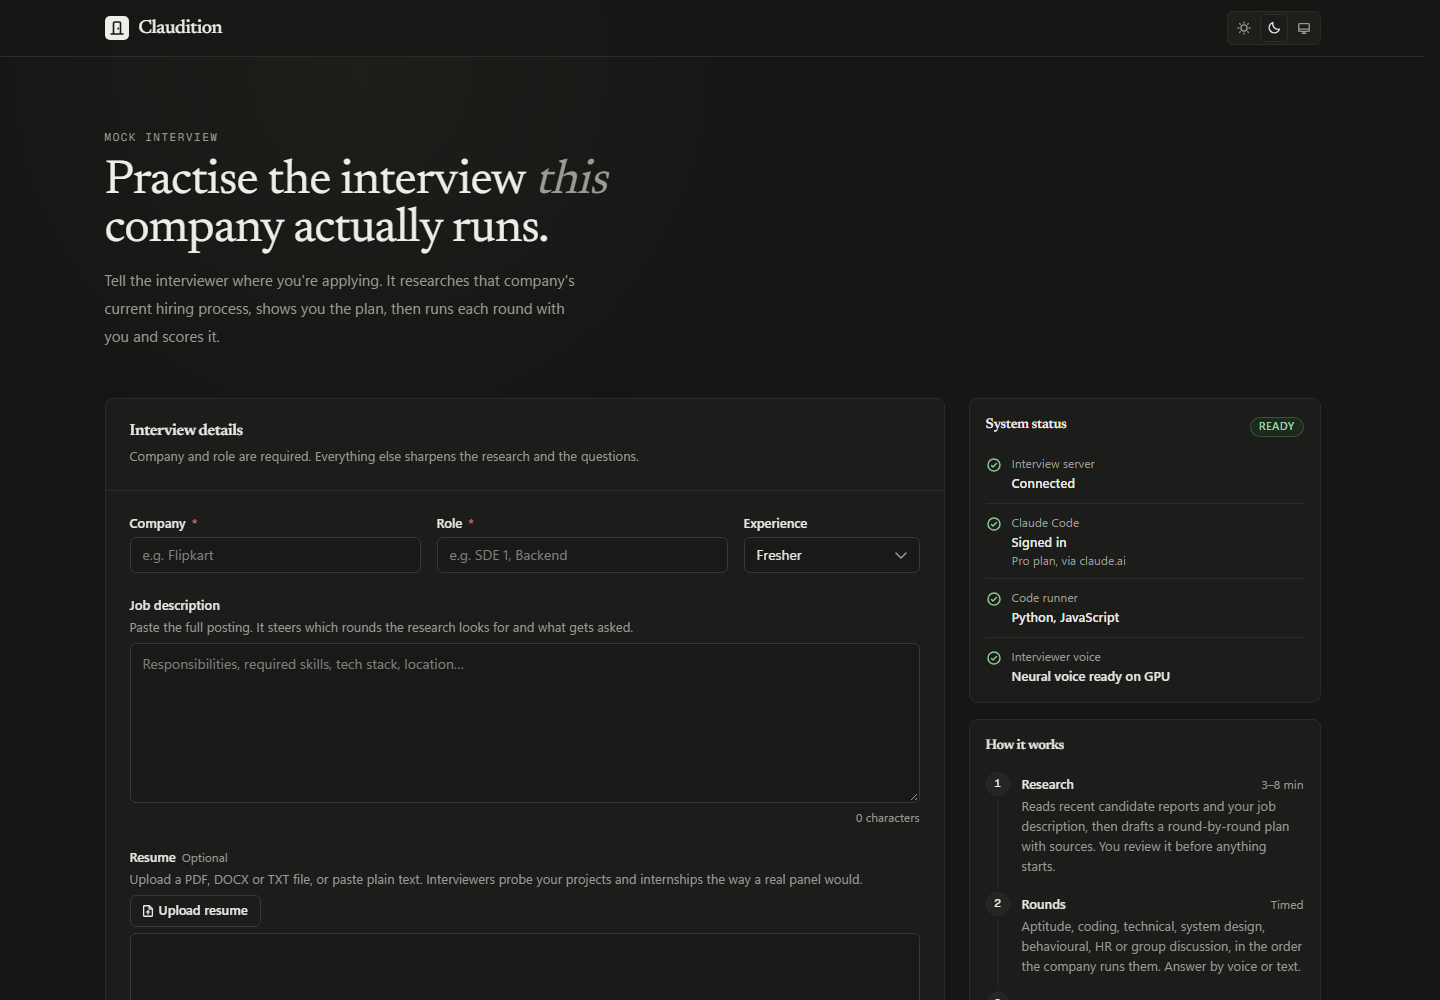
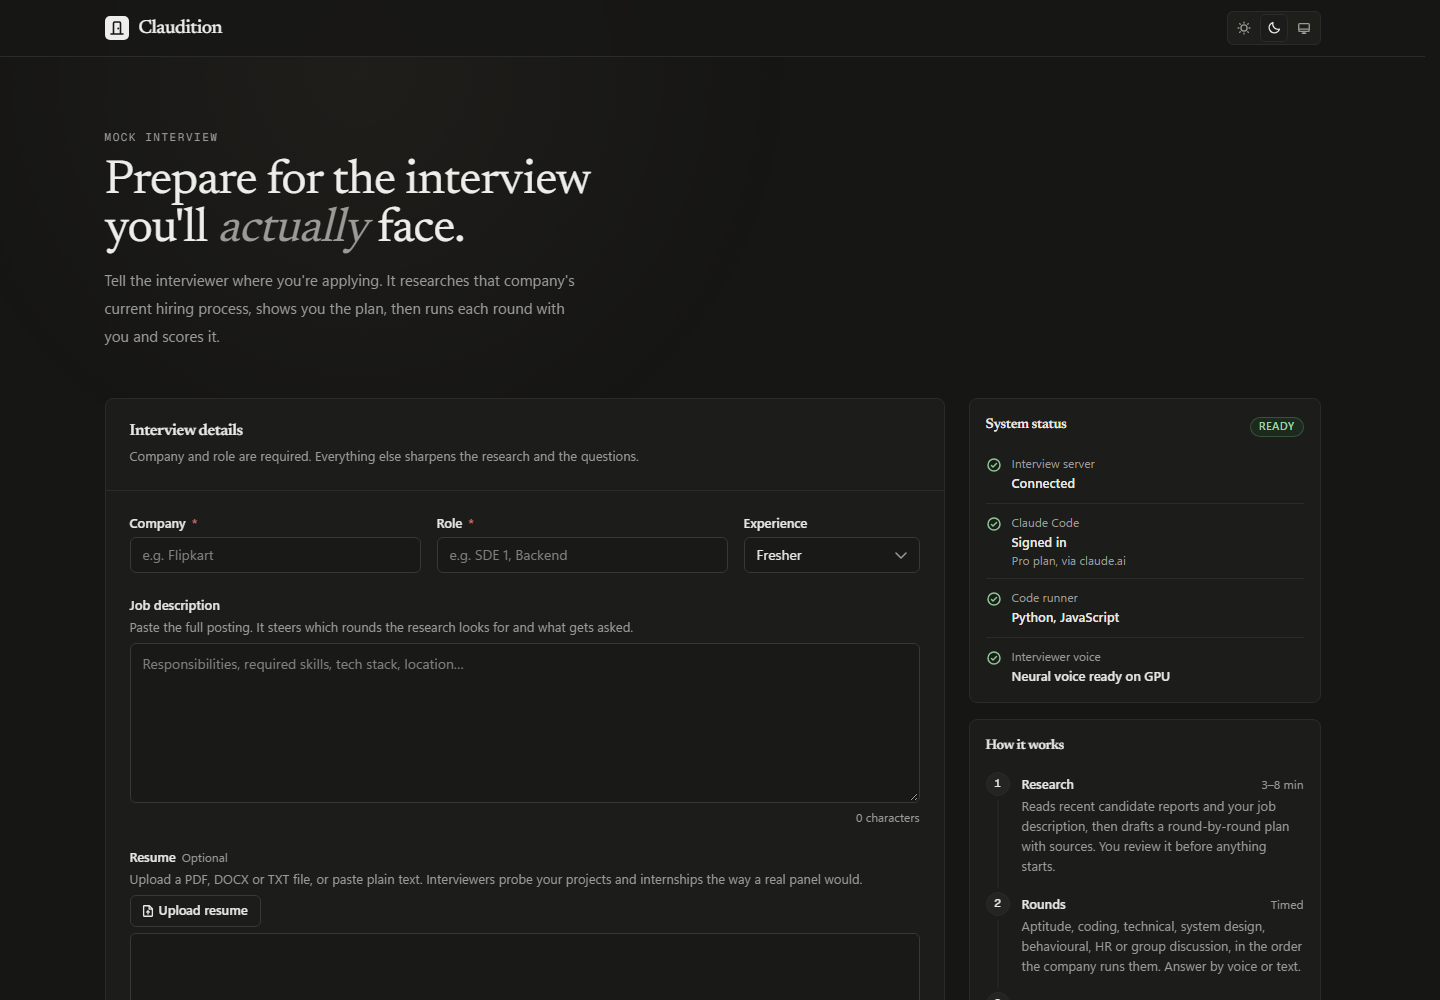
Home headline: "Prepare for the interview you'll actually face."

Changed region(s): [[0.0625, 0.155, 0.4375, 0.248]]

diff --git a/frontend/src/pages/HomePage.tsx b/frontend/src/pages/HomePage.tsx
@@ -227,7 +227,7 @@ export function HomePage() {
       <FadeIn className="flex flex-col gap-3 pt-4 pb-4 sm:pt-8 sm:pb-6">
         <p className="font-mono text-[11px] tracking-[0.14em] text-muted-foreground uppercase">Mock interview</p>
         <h1 className="max-w-[22ch] text-4xl font-normal text-balance text-primary sm:text-5xl">
-          Practise the interview <em className="text-muted-foreground">this</em> company actually runs.
+          Prepare for the interview you'll <em className="text-muted-foreground">actually</em> face.
         </h1>
         <p className="max-w-[60ch] text-[15px] leading-7 text-pretty text-muted-foreground">
           Tell the interviewer where you're applying. It researches that company's current hiring process, shows you the

diff --git a/README.md b/README.md
@@ -2,7 +2,7 @@
 
 # Claudition
 
-**Practise the interview *this* company actually runs.**
+**Prepare for the interview you'll *actually* face.**
 
 AI mock interviews built from a company's real, researched hiring process, running locally on your own Claude Code subscription.
 
